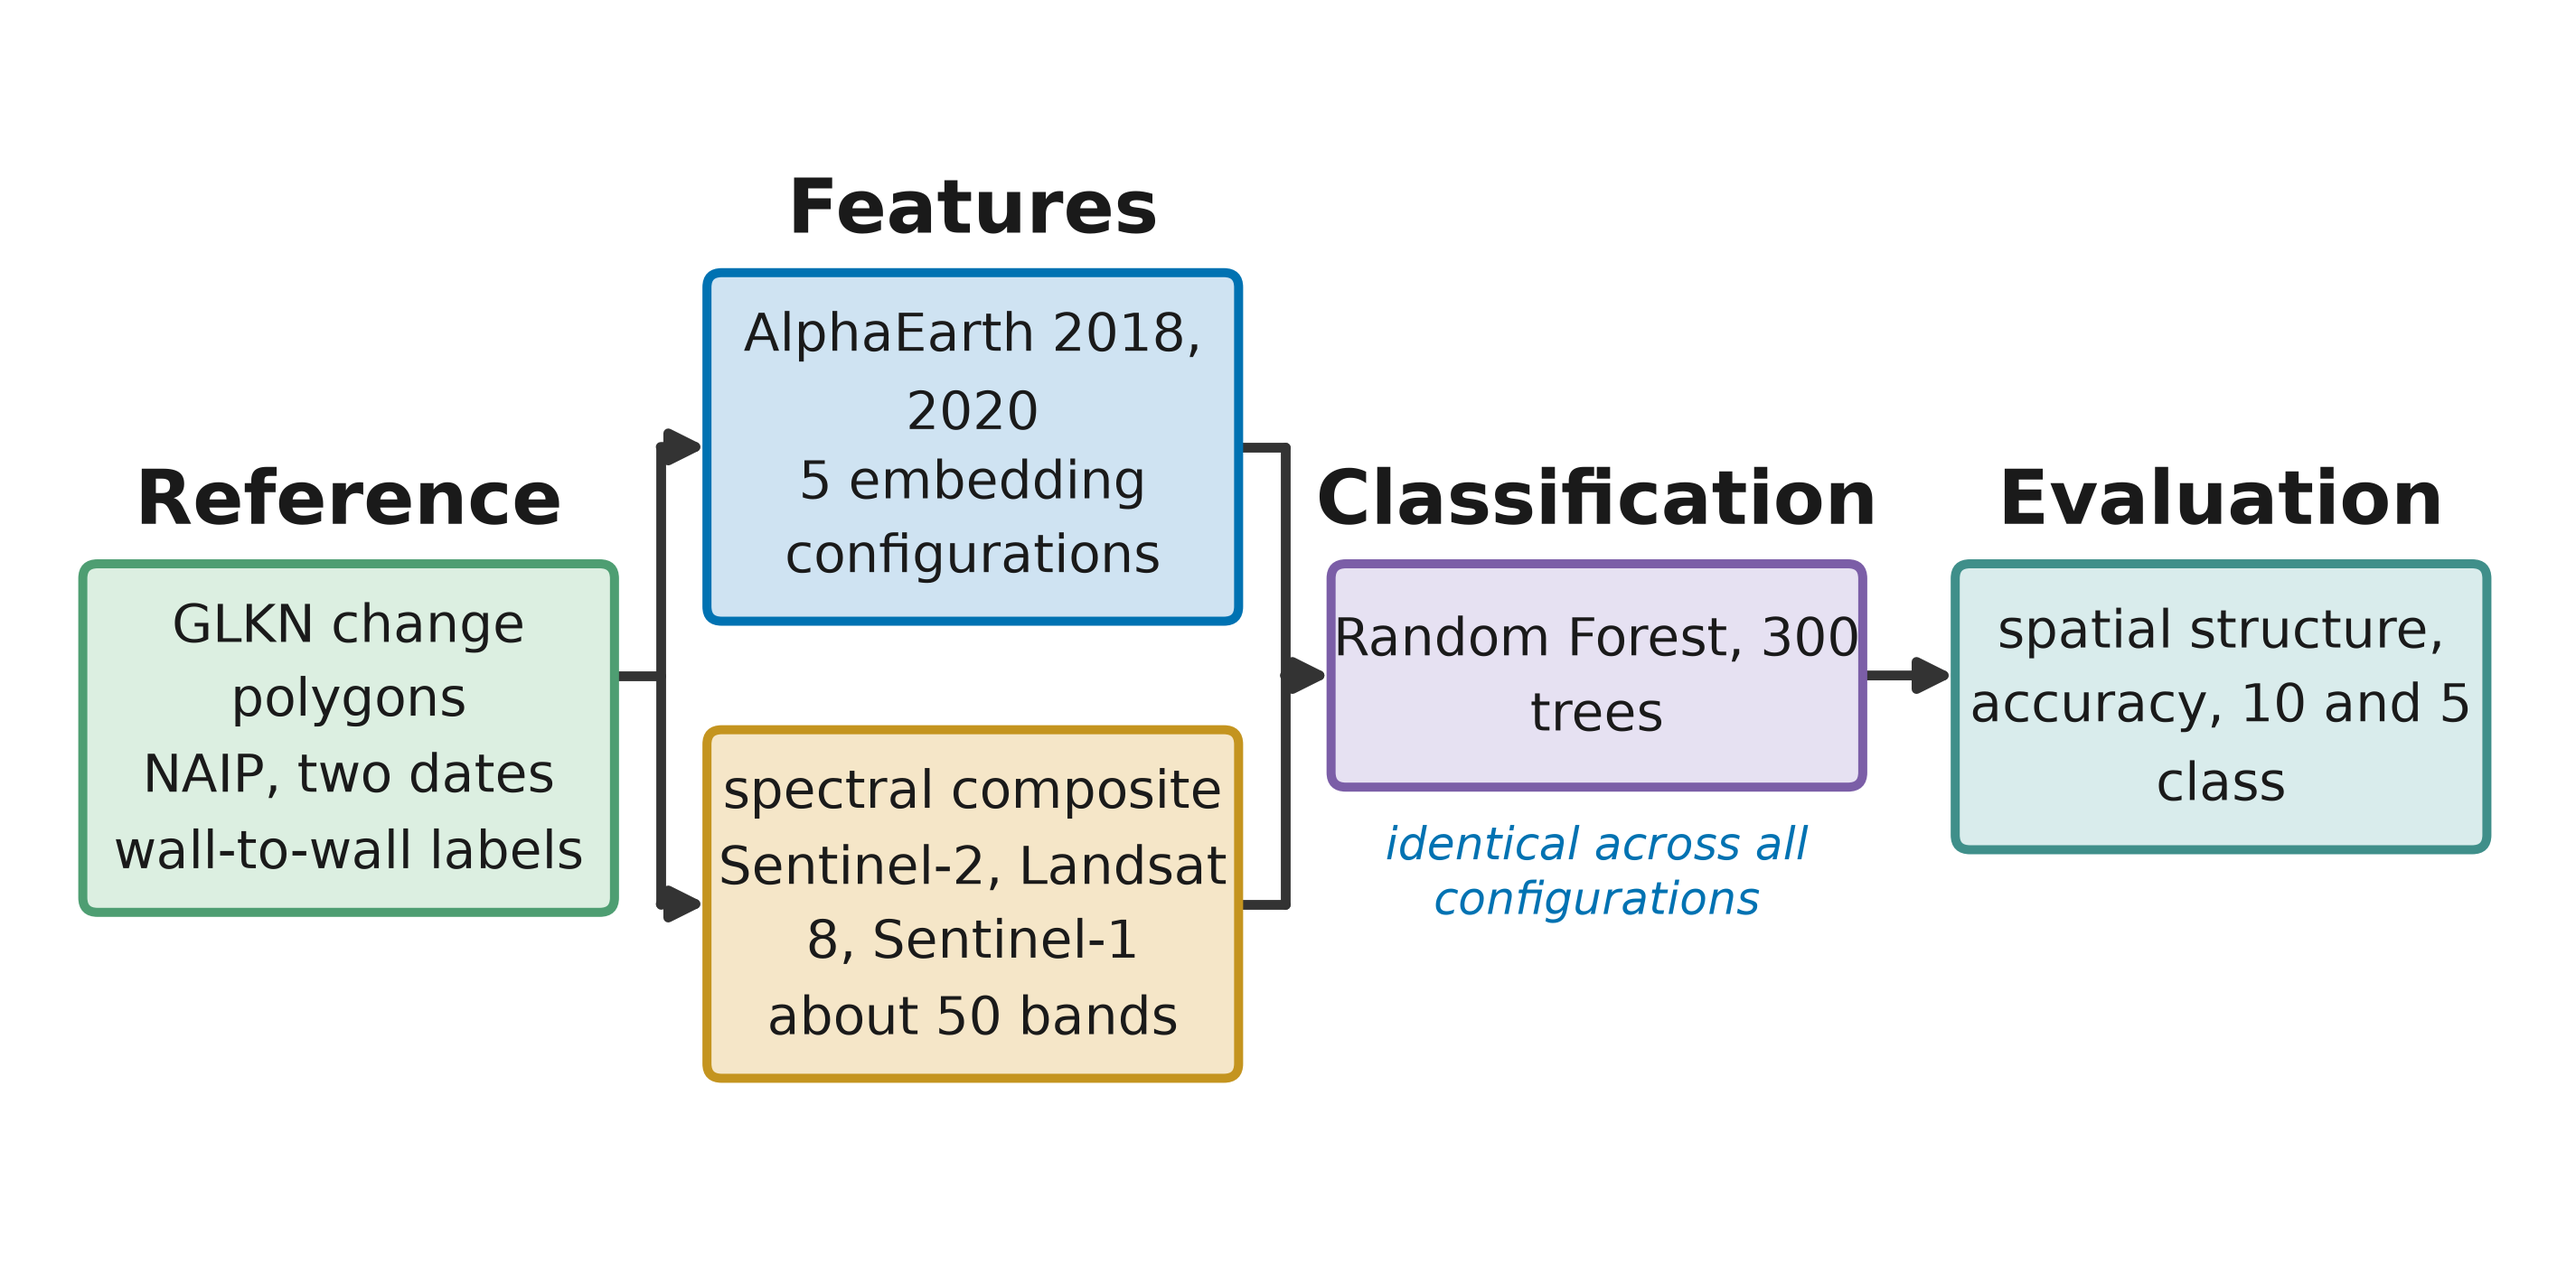
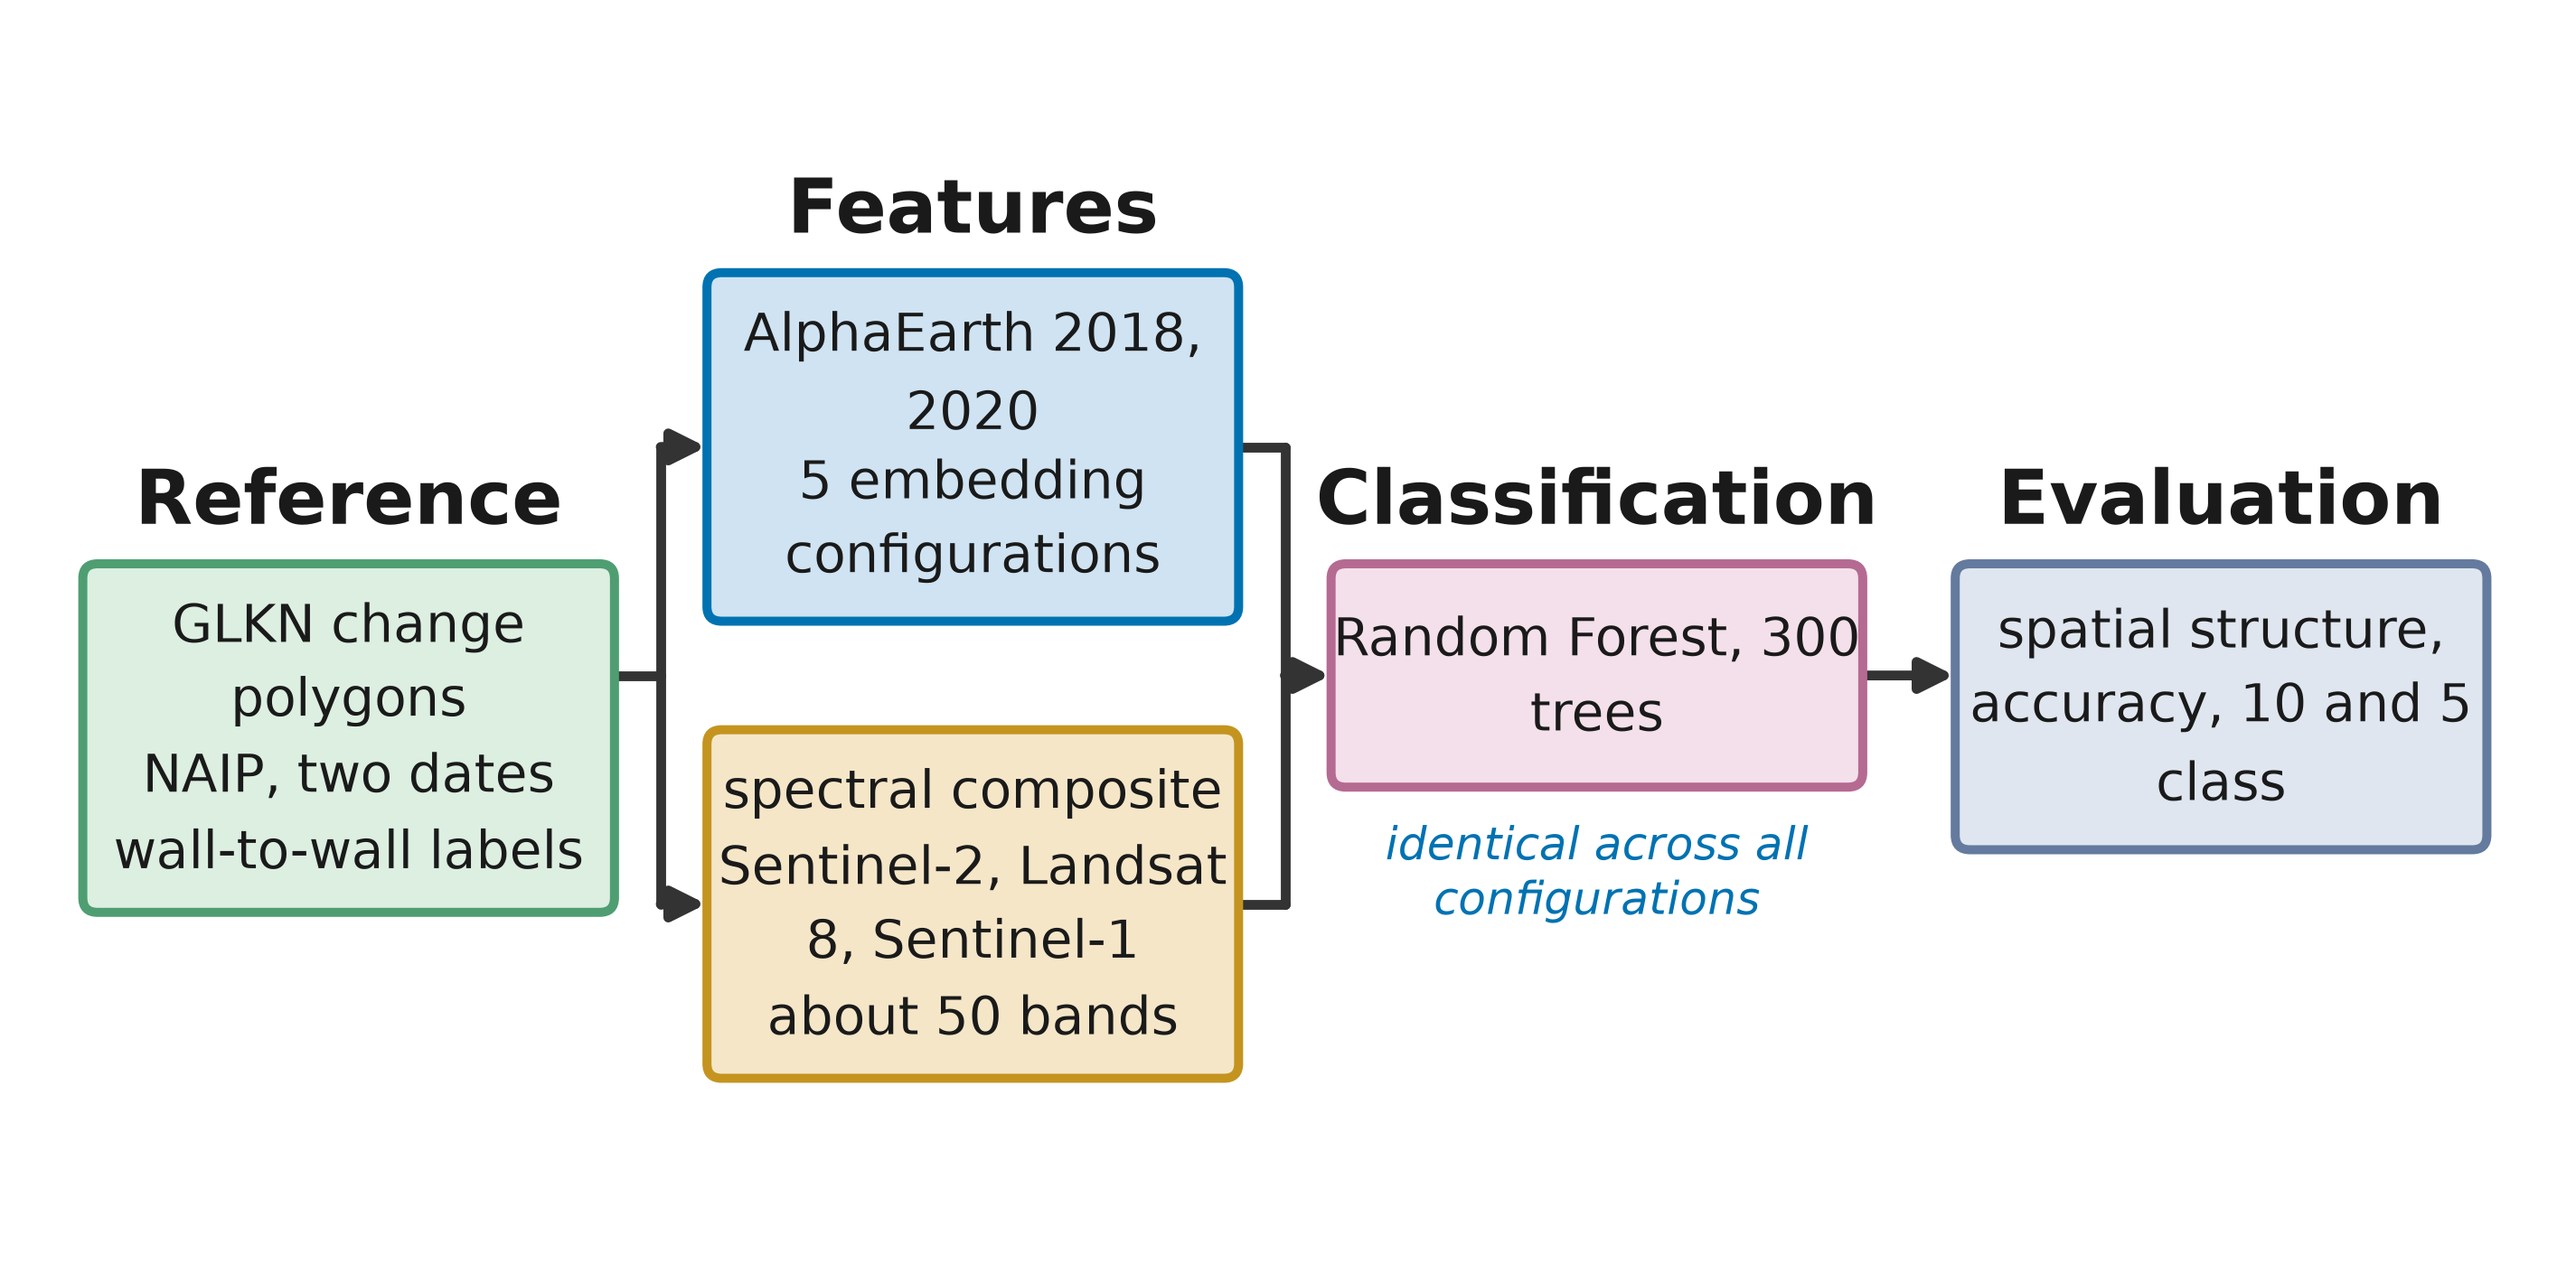
pres_11_workflow_simple colored: recolor Classification (rose) and Evaluation (steel blue)
Replace the lavender Classification and teal Evaluation tints, which read oddly
and sat too close to the Reference green, with a rose and a steel blue so all
five boxes are clearly distinct.

Changed region(s): [[0.7182, 0.4303, 0.9681, 0.6762], [0.4996, 0.4303, 0.7182, 0.6455]]

diff --git a/presentation/scripts/pres_11_workflow_simple.py b/presentation/scripts/pres_11_workflow_simple.py
@@ -33,10 +33,10 @@ SPEC_FILL, SPEC_EDGE = "#f5e6c8", "#c4941f"         # muted amber, complements t
 STAGE_FILL, STAGE_EDGE = "white", "#333333"
 ARROW = "#333333"
 CONTROL = "#0072B2"
-# soft per-stage tints for the colored variant (single-box stages)
-STAGE_COLORS = {"Reference": ("#dcefe1", "#4e9e72"),
-                "Classification": ("#e6e1f2", "#7b5ea7"),
-                "Evaluation": ("#d9ecec", "#3f8f8a")}
+# soft, clearly distinct per-stage tints for the colored variant (single-box stages)
+STAGE_COLORS = {"Reference": ("#dcefe1", "#4e9e72"),        # green
+                "Classification": ("#f4e0ea", "#b56a92"),   # rose
+                "Evaluation": ("#dfe6ef", "#647a9e")}        # steel blue
 
 FIG_W, FIG_H = 12.0, 5.8
 WB, PAD_X, GAP, MARGIN = 2.5, 0.24, 0.47, 0.28     # box width, side pad, inter-stage gap, margin (in)
